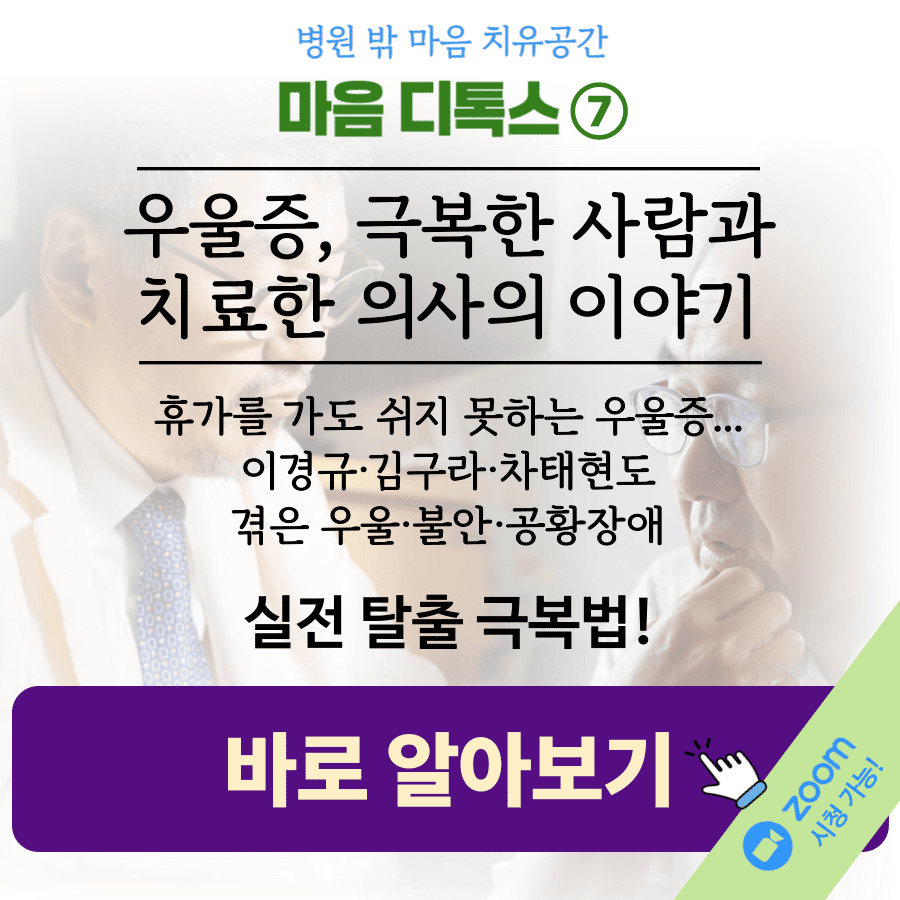
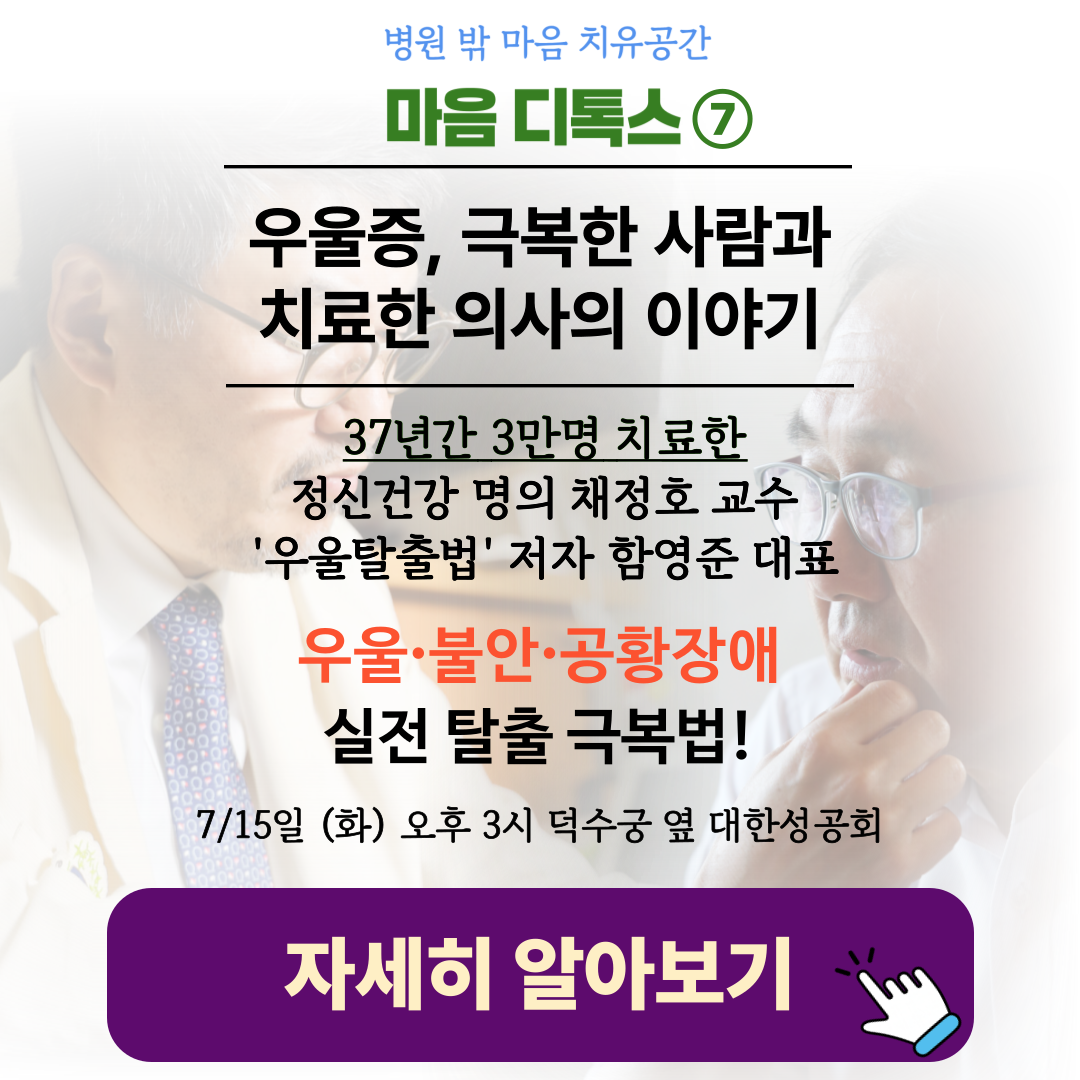
update poster7

diff --git a/cnf-v1-kakao.html b/cnf-v1-kakao.html
@@ -3327,7 +3327,7 @@ Footer
       content: {
         title: '마음건강 길 : 마음디톡스 ⑦',
         description: "37년간 3만명의 우울,공황,불안을 치료한 의사와 극복자의 실전 치유법",
-        imageUrl: 'https://mindwellpath.co.kr/img/kakao-poster7-5.png?ver=1',
+        imageUrl: 'https://mindwellpath.co.kr/img/poster7-5.png?ver=1',
         link: {
           mobileWebUrl: 'https://mindwellpath.co.kr/cnf-v1-kakao.html',
           webUrl: 'https://mindwellpath.co.kr/cnf-v1-kakao.html'

diff --git a/lib/contactform/countdown-1d-7.js b/lib/contactform/countdown-1d-7.js
@@ -1,6 +1,6 @@
 $(function () {
-    var targetDate = new Date("2025-07-14T23:58:00+09:00"); // 마감 시각
-    var today      = new Date("2025-07-14T23:58:00+09:00");
+    var targetDate = new Date("2025-07-14T23:59:00+09:00"); // 마감 시각
+    var today      = new Date("2025-07-14T23:59:00+09:00");
     var year  = today.getFullYear();
     var month = today.getMonth() + 1;
     var day   = today.getDate();
